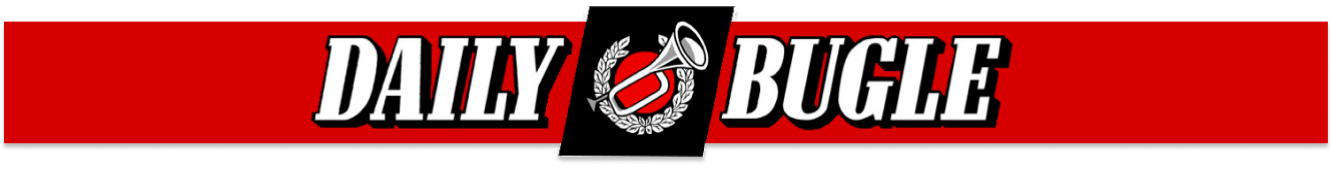
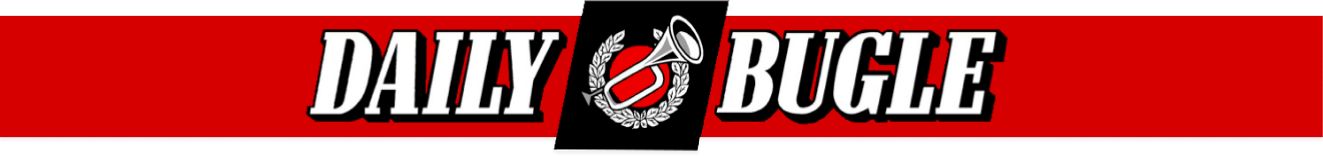
se modificó el encabezado de la pagina noticias en modo responsive

Changed region(s): [[0.0, 0.0755, 1.0, 0.956], [0.0, 0.0755, 0.4649, 0.1258], [0.4339, 0.0, 0.5578, 0.0503]]

diff --git a/css/style.css b/css/style.css
@@ -155,11 +155,11 @@ a:hover {
   grid-template-columns: 1fr 1fr 1fr 1fr;
   gap: 1.25rem; }
   .noticias article {
-    width: 255px;
+    width: cover;
     height: 540px; }
     .noticias article img {
       box-shadow: 0px 5px 7.8px rgba(0, 0, 0, 0.258);
-      width: 15.9375rem; }
+      max-width: 100%; }
     .noticias article h3 {
       margin-top: 0.625rem;
       font-size: 1.125rem;
@@ -189,7 +189,7 @@ footer {
   display: flex;
   flex-direction: column;
   align-items: center;
-  padding-top: 4.375rem; }
+  padding-top: 84px; }
   .pNoticias .contenedor-de-noticias-pagina {
     background-color: white;
     width: 90%;
@@ -199,8 +199,11 @@ footer {
     padding-bottom: 60px; }
     .pNoticias .contenedor-de-noticias-pagina .daily2 {
       display: flex;
-      justify-content: center;
-      width: 100%; }
+      justify-content: center; }
+      .pNoticias .contenedor-de-noticias-pagina .daily2 img {
+        max-width: 100%; }
+    .pNoticias .contenedor-de-noticias-pagina .daily936 {
+      display: none; }
     .pNoticias .contenedor-de-noticias-pagina .subContenedorNoticias {
       display: flex;
       flex-direction: column;
@@ -218,7 +221,8 @@ footer {
         display: grid;
         grid-template-columns: 1fr 1fr 1fr 1fr;
         align-items: center;
-        gap: 1.25rem; }
+        gap: 1.25rem;
+        max-width: 100%; }
         .pNoticias .contenedor-de-noticias-pagina .subContenedorNoticias .noticias-pagina1 article {
           width: 255px;
           height: 540px; }
@@ -442,7 +446,14 @@ footer {
     .nav-wraper .barNav .menu ul {
       flex-direction: column;
       align-items: center;
-      padding: 8px 0; } }
+      padding: 8px 0; }
+  .pNoticias .contenedor-de-noticias-pagina .daily2 {
+    display: none; }
+  .pNoticias .contenedor-de-noticias-pagina .daily936 {
+    display: flex;
+    justify-content: center; }
+    .pNoticias .contenedor-de-noticias-pagina .daily936 img {
+      max-width: 100%; } }
 
 @media (max-width: 768px) {
   /****BARRA NAVEGADOR****/

diff --git a/scss/layout/_mainNoticias.scss b/scss/layout/_mainNoticias.scss
@@ -3,7 +3,7 @@
     display: flex;
     flex-direction: column;
     align-items: center;
-    padding-top: 4.375rem;
+    padding-top: 84px;
     .contenedor-de-noticias-pagina {
         background-color: white;
         width: 90%;
@@ -14,7 +14,12 @@
         .daily2 {
             display: flex;
             justify-content: center;
-            width: 100%;
+            img{
+                max-width: 100%;
+            }
+        }
+        .daily936{
+            display: none;
         }
         .subContenedorNoticias{
             display: flex;
@@ -33,6 +38,7 @@
                 grid-template-columns: 1fr 1fr 1fr 1fr;
                 align-items: center;
                 gap: 1.25rem;
+                max-width: 100%;
                 article{
                     width: 255px ;
                     height: 540px;

diff --git a/pages/noticias.html b/pages/noticias.html
@@ -28,6 +28,7 @@
         <section class="pNoticias">
             <div class="contenedor-de-noticias-pagina">
                 <div class="daily2"><img src="../assets/Daily Bugle 2.png" alt=""></div>
+                <div class="daily936"><img src="../assets/Daily-Bugle-2.png" alt=""></div>
                 <section class="subContenedorNoticias"> 
                     <h1>NOTICIAS</h1>
                     <section class="noticias-pagina1">

diff --git a/scss/layout/mediasQ/_media936.scss b/scss/layout/mediasQ/_media936.scss
@@ -22,4 +22,21 @@
             }
         }
     }
-    }
+    
+    .pNoticias{
+        .contenedor-de-noticias-pagina{
+            .daily2 {
+                display: none;
+            }
+            .daily936{
+                display: flex;
+                justify-content: center;
+                img{
+                max-width: 100%;
+            }
+        }
+            }
+        }
+}
+
+

diff --git a/scss/components/_tarjetaNoticias.scss b/scss/components/_tarjetaNoticias.scss
@@ -3,11 +3,11 @@
     grid-template-columns: 1fr 1fr 1fr 1fr;
     gap: 1.25rem;
     article{
-        width: 255px ;
+        width: cover;
         height: 540px;
         img{
             box-shadow: 0px 5px 7.8px rgba(0, 0, 0, 0.258);
-            width: 15.9375rem
+            max-width: 100%;
         }
         h3{
             margin-top: 0.625rem;
